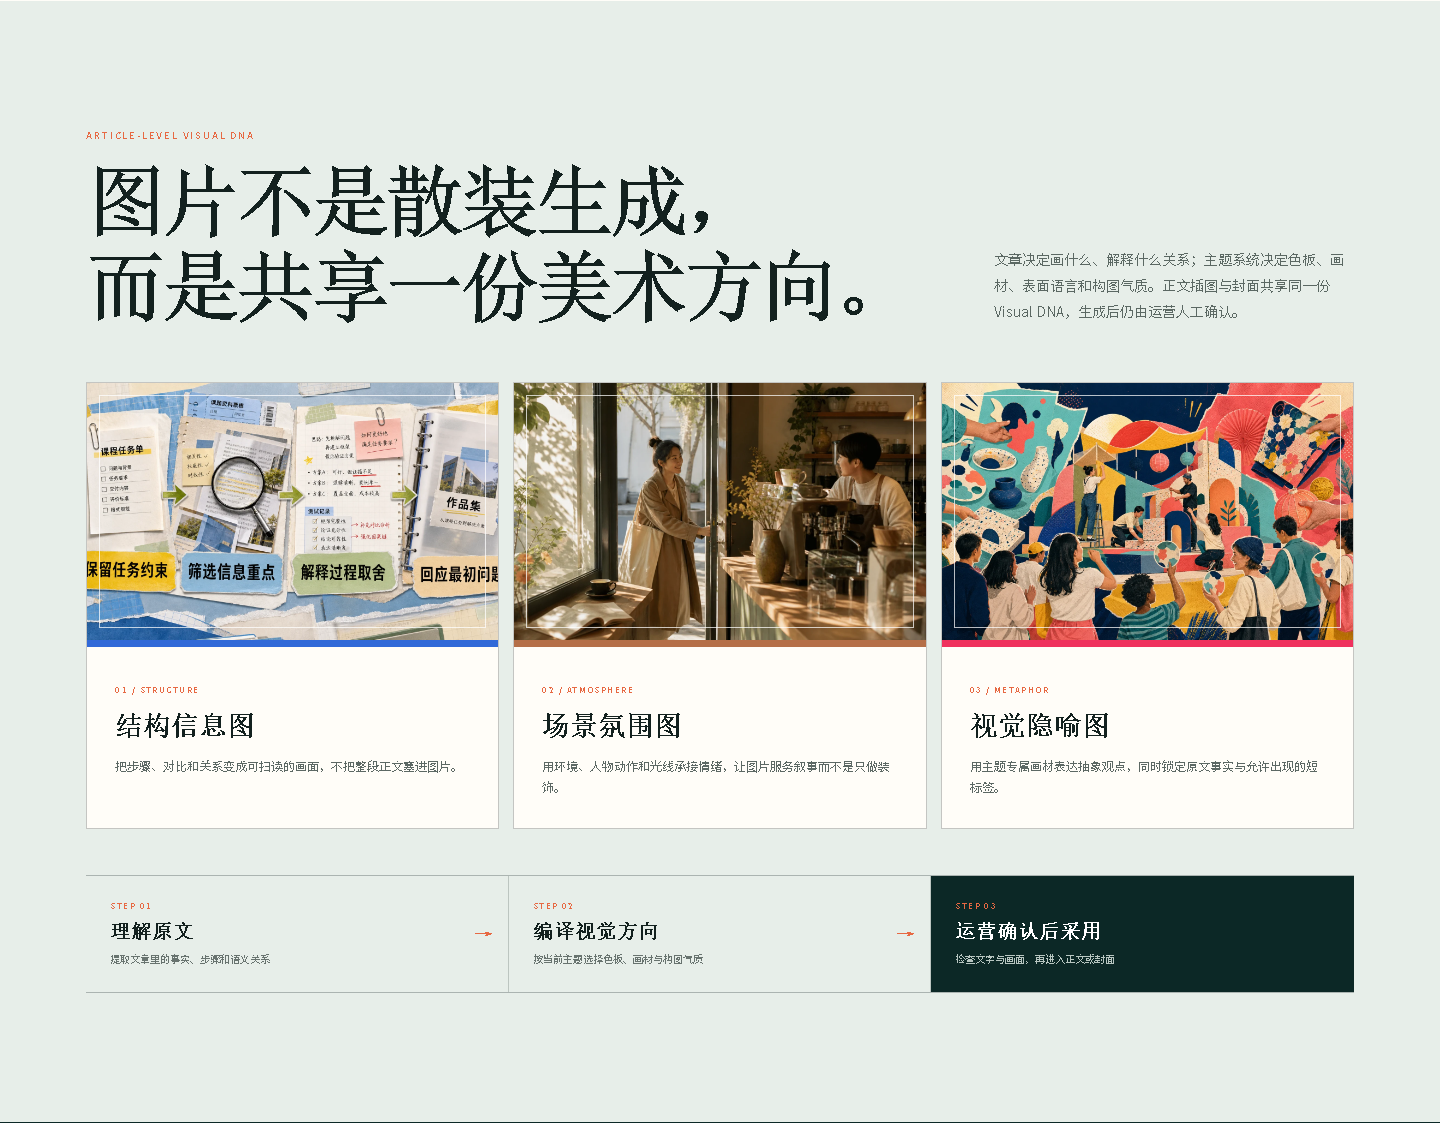
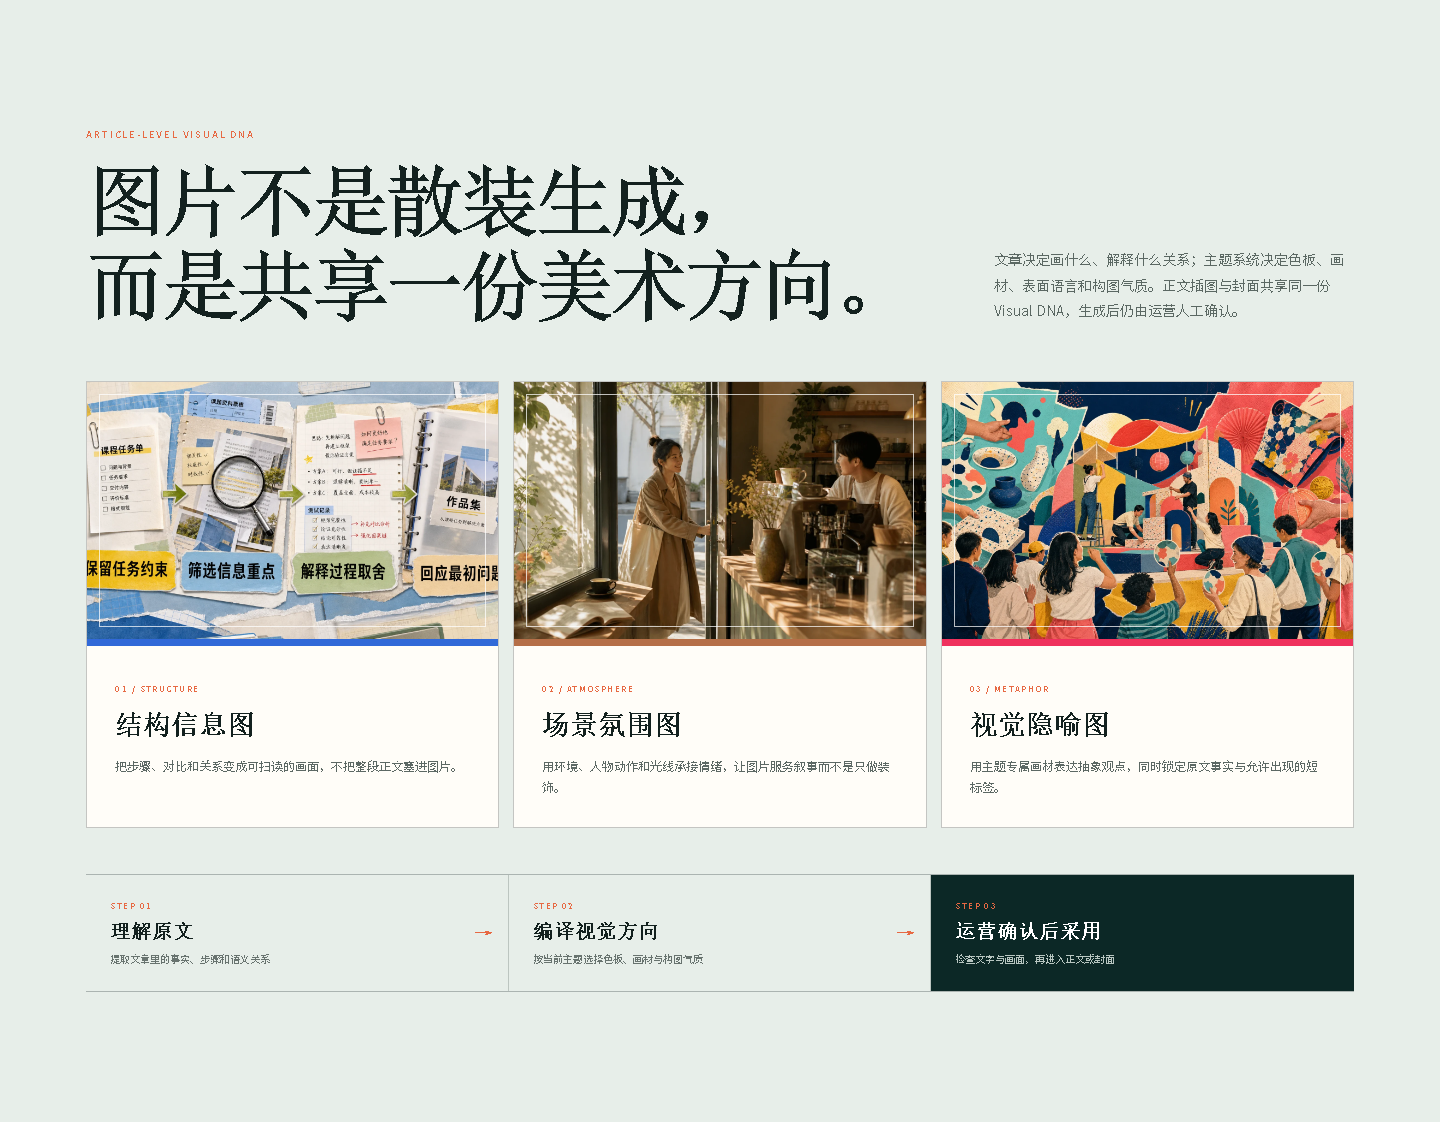
docs: improve repository search discoverability

diff --git a/site/index.html b/site/index.html
@@ -5,9 +5,38 @@
     <meta name="viewport" content="width=device-width, initial-scale=1.0" />
     <meta
       name="description"
-      content="WeChat Visual Director：历史感知、多主题、可人工确认的公众号视觉主编 Skill。"
+      content="开源微信公众号 AI 排版 Skill：让 Agent 将主题、资料或 Markdown 转成 12 套可切换主题的微信兼容文章，支持 AI 配图、手机预览、富文本复制和公众号草稿箱交付。"
     />
-    <title>WeChat Visual Director · 公众号视觉主编</title>
+    <meta name="robots" content="index,follow,max-image-preview:large" />
+    <link rel="canonical" href="https://zhouke0929.github.io/wechat-visual-director/" />
+    <meta property="og:type" content="website" />
+    <meta property="og:locale" content="zh_CN" />
+    <meta property="og:site_name" content="WeChat Visual Director" />
+    <meta property="og:title" content="微信公众号 AI 排版 Skill | WeChat Visual Director" />
+    <meta property="og:description" content="理解文章后再排版：12 套视觉主题、AI 配图、拟真手机预览与微信公众号草稿箱交付。" />
+    <meta property="og:url" content="https://zhouke0929.github.io/wechat-visual-director/" />
+    <meta property="og:image" content="https://raw.githubusercontent.com/zhouke0929/wechat-visual-director/main/docs/assets/readme/product-showcase-hero.png" />
+    <meta name="twitter:card" content="summary_large_image" />
+    <meta name="twitter:title" content="微信公众号 AI 排版 Skill | WeChat Visual Director" />
+    <meta name="twitter:description" content="把主题、资料或 Markdown 转成可换主题、可配图、可发布到公众号草稿箱的视觉文章。" />
+    <meta name="twitter:image" content="https://raw.githubusercontent.com/zhouke0929/wechat-visual-director/main/docs/assets/readme/product-showcase-hero.png" />
+    <title>微信公众号 AI 排版 Skill | WeChat Visual Director</title>
+    <script type="application/ld+json">
+      {
+        "@context": "https://schema.org",
+        "@type": "SoftwareApplication",
+        "name": "WeChat Visual Director",
+        "alternateName": "微信公众号 AI 排版 Skill",
+        "applicationCategory": "DesignApplication",
+        "operatingSystem": "Windows; macOS Technical Preview",
+        "description": "开源微信公众号排版 Skill，将主题、资料或 Markdown 转换为可换主题、可配图、可手机预览并能写入公众号草稿箱的微信兼容文章。",
+        "url": "https://zhouke0929.github.io/wechat-visual-director/",
+        "downloadUrl": "https://github.com/zhouke0929/wechat-visual-director/releases",
+        "codeRepository": "https://github.com/zhouke0929/wechat-visual-director",
+        "license": "https://www.apache.org/licenses/LICENSE-2.0",
+        "isAccessibleForFree": true
+      }
+    </script>
     <link rel="stylesheet" href="./styles.css?v=20260820-2" />
   </head>
   <body>
@@ -34,7 +63,7 @@
           <h1>不是给 Markdown<br />换一件衣服。</h1>
           <p class="hero-thesis">而是先理解文章，再决定视觉节奏。</p>
           <p class="hero-desc">
-            一套面向公众号运营的视觉主编 Skill：宿主 Agent 理解内容，本地核心守住结构与事实，运营在工作台确认主题、配图和封面，最后写入微信公众号草稿箱。
+            一套面向公众号运营和新媒体团队的微信公众号 AI 排版 Skill：宿主 Agent 理解内容，本地核心守住结构与事实，运营在工作台确认主题、配图和封面，最后写入微信公众号草稿箱。
           </p>
           <div class="hero-actions" aria-describedby="installCopyHint">
             <a class="button primary" href="#cases">看真实文章</a>

diff --git a/README.md b/README.md
@@ -1,6 +1,6 @@
-# WeChat Visual Director
+# WeChat Visual Director — 微信公众号 AI 排版 Skill
 
-> 把公众号主题、资料或 Markdown 初稿，转换为可人工确认、可复制交付、可写入微信公众号草稿箱的视觉文章。
+> 开源微信公众号排版 Skill：把主题、资料或 Markdown 初稿转换为可换主题、可配图、可手机预览，并能写入微信公众号草稿箱的视觉文章。
 
 [![Release](https://img.shields.io/github/v/release/zhouke0929/wechat-visual-director?include_prereleases&label=release)](https://github.com/zhouke0929/wechat-visual-director/releases)
 [![CI](https://github.com/zhouke0929/wechat-visual-director/actions/workflows/ci.yml/badge.svg)](https://github.com/zhouke0929/wechat-visual-director/actions/workflows/ci.yml)
@@ -8,7 +8,9 @@
 [![Platform](https://img.shields.io/badge/Windows-supported-0078D4)](#系统要求)
 [![macOS](https://img.shields.io/badge/macOS-technical_preview-777777)](#macos-技术预览)
 
-`wechat-visual-director` 是一个本地优先的开源 Skill + 可视化工作台。宿主 Agent 负责理解文章，本地核心负责结构校验、主题选择、组件编译和微信兼容渲染；运营只需要确认整篇主题、图片与封面。模型不会自由生成整段 HTML/CSS，也不会绕过人工确认自动群发。
+`wechat-visual-director` 面向公众号运营、新媒体团队和使用 AI Agent 提效的内容创作者，是一个本地优先的开源 Skill + 可视化工作台。宿主 Agent 负责理解文章，本地核心负责结构校验、主题选择、组件编译和微信兼容渲染；运营只需要确认整篇主题、图片与封面。模型不会自由生成整段 HTML/CSS，也不会绕过人工确认自动群发。
+
+它覆盖微信公众号文章排版、Markdown 转微信兼容 HTML、AI 配图、拟真手机预览、富文本复制和公众号草稿箱交付；既可以零 Key 只做排版，也可以按需连接图片模型和微信官方 API。
 
 <p align="center">
   <a href="https://zhouke0929.github.io/wechat-visual-director/"><b>在线浏览产品与 12 套主题</b></a>
